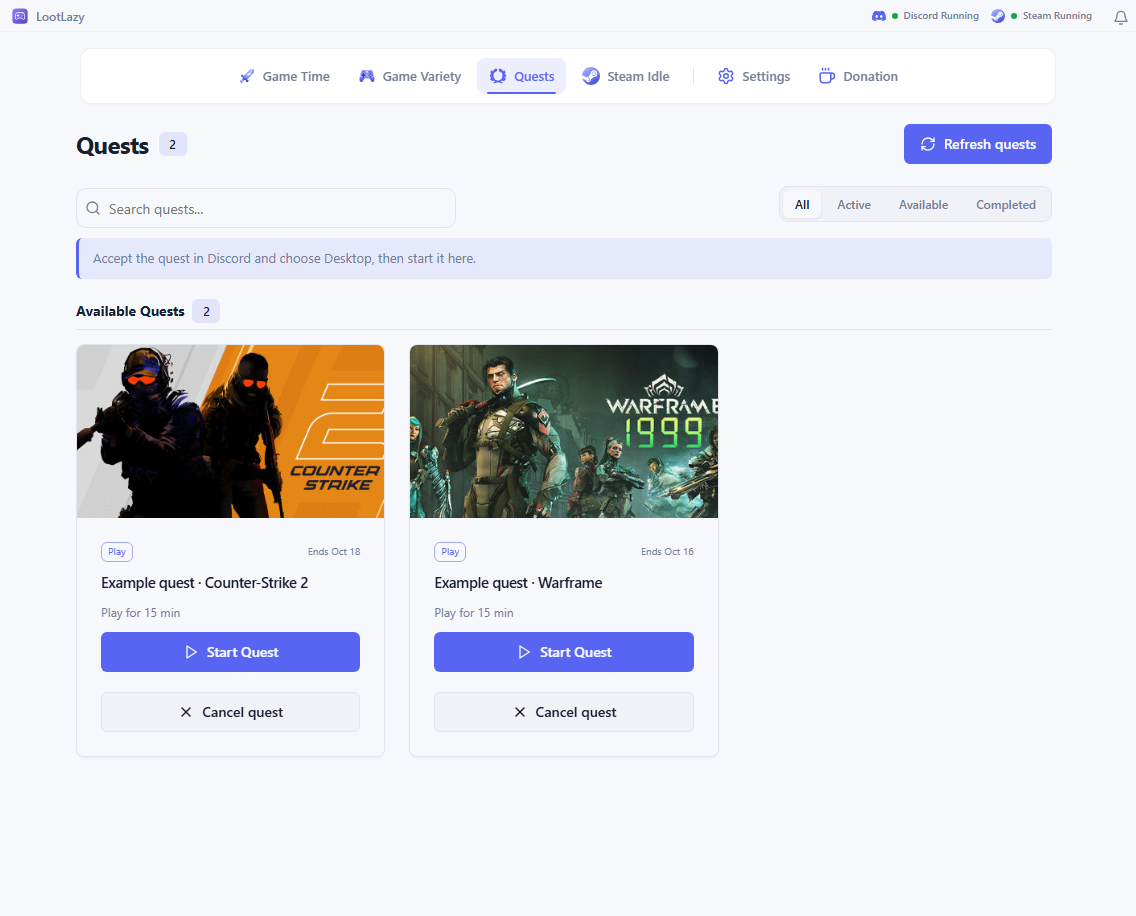
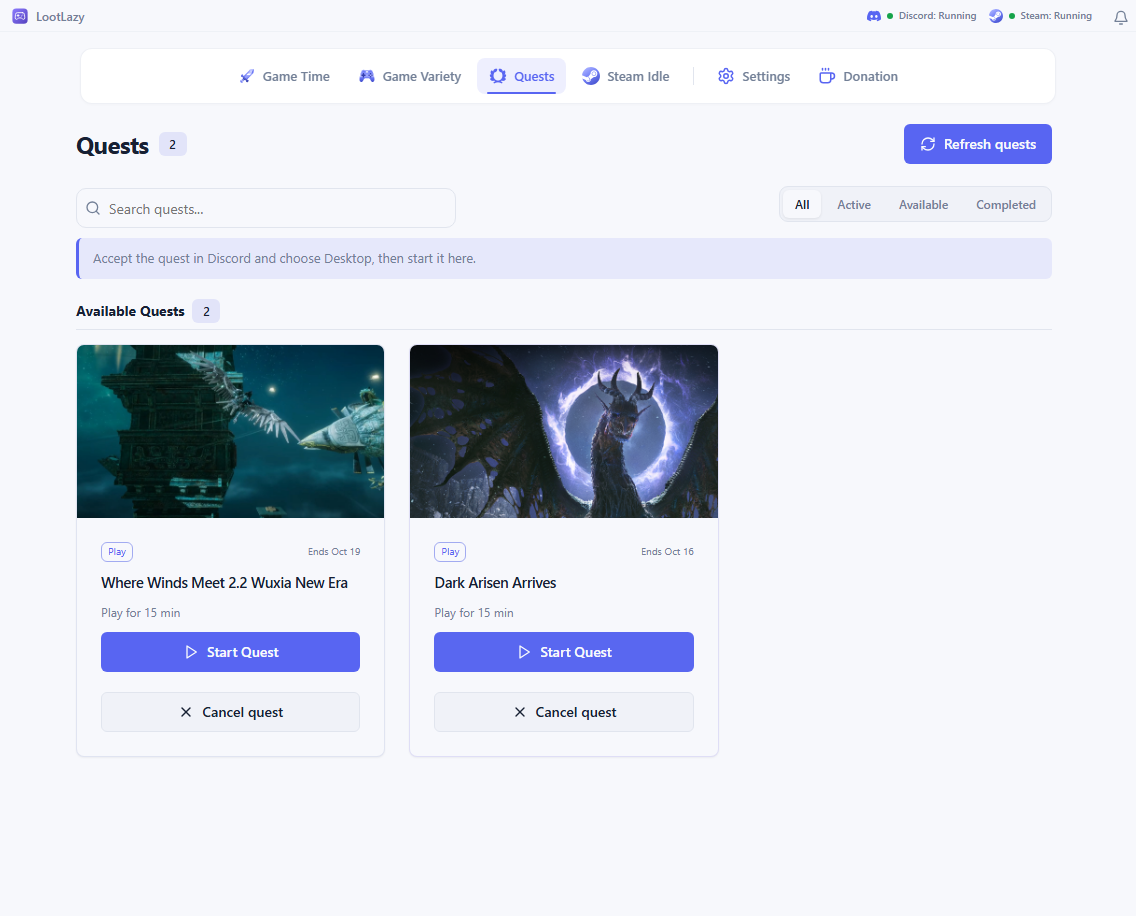
Prepare 3.6.18 with static quest controls and refreshed gallery

diff --git a/tools/generate-screenshots.js b/tools/generate-screenshots.js
@@ -24,38 +24,7 @@ const popularGames = [
 
 const catalogPath=process.env.LOOTLAZY_SCREENSHOT_CATALOG;
 if(catalogPath){const catalog=JSON.parse(fs.readFileSync(catalogPath,'utf8'));for(const game of popularGames){const match=catalog.find(item=>item.name===game.name && item.icon_hash);if(match)Object.assign(game,{id:match.id,icon_hash:match.icon_hash,cover_image_hash:match.cover_image_hash});}}
-const mockQuests = [
-  {
-    id: '123456789012345678',
-    questName: 'Example quest · Counter-Strike 2',
-    image: 'https://shared.akamai.steamstatic.com/store_item_assets/steam/apps/730/header.jpg',
-    gameName: 'Counter-Strike 2',
-    game: { id: '730' },
-    kind: 'play',
-    durationMinutes: 15,
-    durationSeconds: 900,
-    resumeElapsedSeconds: 0,
-    startsAt: new Date(Date.now() - 3600000).toISOString(),
-    expiresAt: new Date(Date.now() + 86400000 * 5).toISOString(),
-    variantIds: ['730'],
-    rewards: [{ name: 'Discord Badge & Avatar Decoration' }]
-  },
-  {
-    id: '234567890123456789',
-    questName: 'Example quest · Warframe',
-    image: 'https://shared.akamai.steamstatic.com/store_item_assets/steam/apps/230410/header.jpg',
-    gameName: 'Warframe',
-    game: { id: '230410' },
-    kind: 'play',
-    durationMinutes: 15,
-    durationSeconds: 900,
-    resumeElapsedSeconds: 0,
-    startsAt: new Date(Date.now() - 7200000).toISOString(),
-    expiresAt: new Date(Date.now() + 86400000 * 3).toISOString(),
-    variantIds: ['230410'],
-    rewards: [{ name: 'In-Game Reward & Discord Badge' }]
-  }
-];
+const mockQuests = JSON.parse(fs.readFileSync(path.join(screenshotsDir, 'quest-examples.json'), 'utf8').replace(/^\uFEFF/, ''));
 
 let server, browser;
 
@@ -92,7 +61,7 @@ let server, browser;
       deviceScaleFactor: 1
     });
 
-    await page.route('http://artwork.localhost/**', async route => { const url=new URL(route.request().url()).searchParams.get('url'); if(!url||!(url.startsWith('https://cdn.discordapp.com/app-icons/')||url.startsWith('https://cdn.discordapp.com/app-assets/')||/^https:\/\/(?:shared\.akamai|shared\.fastly|cdn\.akamai)\.steamstatic\.com\//.test(url)))return route.fulfill({status:404,body:''}); try{const response=await route.fetch({url,timeout:15000});await route.fulfill({response});}catch{await route.fulfill({status:404,body:''});} });
+    await page.route('http://artwork.localhost/**', async route => { const url=new URL(route.request().url()).searchParams.get('url'); if(!url||!(url.startsWith('https://cdn.discordapp.com/app-icons/')||url.startsWith('https://cdn.discordapp.com/app-assets/')||url.startsWith('https://cdn.discordapp.com/quests/')||/^https:\/\/(?:shared\.akamai|shared\.fastly|cdn\.akamai)\.steamstatic\.com\//.test(url)))return route.fulfill({status:404,body:''}); try{const response=await route.fetch({url,timeout:15000});await route.fulfill({response});}catch{await route.fulfill({status:404,body:''});} });
 
     await page.addInitScript(({ games, quests }) => {
       window.lootlazyDiagnostic = true;
@@ -129,7 +98,7 @@ let server, browser;
         if (p === '/api/catalog-stats') return { totalGames: games.length };
         if (p === '/api/settings') return { desktop_notifications: false, total_playtime_seconds: 0 };
         if (p === '/api/quests') return { quests, last_synced: new Date().toISOString() };
-        if (p.startsWith('/api/updates')) return { currentVersion: '3.6.17', status: 'up_to_date' };
+        if (p.startsWith('/api/updates')) return { currentVersion: '3.6.18', status: 'up_to_date' };
         if (p === '/api/status') return {
           discordConnected: true,
           steamRunning: true,
@@ -213,10 +182,13 @@ let server, browser;
     });
     await settle();
     const questsPath = path.join(screenshotsDir, 'quests.png');
+    await page.waitForFunction(()=>[...document.querySelectorAll('.quest-cover img')].every(image=>image.complete&&image.naturalWidth>0));
+    for(const button of await page.locator('.quest-card .button').all()){if(await button.isVisible()){await button.hover();const motion=await button.evaluate(element=>({transform:getComputedStyle(element).transform,animation:getComputedStyle(element).animationName}));if(motion.transform!=='none'||motion.animation!=='none')throw Error('Quest button moves');}}
+    await page.mouse.move(0,0);
     await page.screenshot({ path: questsPath });
     console.log('Saved:', questsPath);
 
-    await page.evaluate(()=>{window.lootlazyNotifications.add(t('session_completed',{game:'Counter-Strike 2'}),'success',{kind:'session',target:'simulator'});window.lootlazyNotifications.add(t('update_available_version',{version:'3.6.17'}),'info',{kind:'update',target:'settings'});});
+    await page.evaluate(()=>{window.lootlazyNotifications.add(t('session_completed',{game:'Counter-Strike 2'}),'success',{kind:'session',target:'simulator'});window.lootlazyNotifications.add(t('update_available_version',{version:'3.6.18'}),'info',{kind:'update',target:'settings'});});
     await page.click('#notifications-toggle');await page.locator('#notifications-list .notification-item').last().click();await settle();await page.screenshot({path:path.join(screenshotsDir,'notifications.png')});
     console.log('All gallery screenshots updated successfully.');
   } finally {

diff --git a/public/css/style.css b/public/css/style.css
@@ -14,3 +14,7 @@
 @media(max-width:760px){.navigation{flex-basis:62px}.nav-tab{justify-content:center}.nav-tab>[data-i18n]{display:none}.workspace-grid{grid-template-columns:1fr}.quests-grid{grid-template-columns:1fr}.page-heading h1{font-size:24px}}
 
 .window-button{display:inline-flex;align-items:center;justify-content:center}.window-button svg{width:11px;height:11px;fill:none;stroke:currentColor;stroke-width:1;stroke-linecap:square}.titlebar .icon-button svg{width:16px;height:16px}.quest-running{border-color:var(--green);box-shadow:0 0 0 1px #76ddad16}.quest-progress{margin:0}.quest-error-text{font-size:11px!important;margin-top:6px;text-align:center;color:var(--red)}.button.quest-timer{font-variant-numeric:tabular-nums;letter-spacing:.3px}.advanced-game-settings>summary::after,.queue-summary::after{content:'+';font-size:18px;font-weight:400;color:var(--muted)}details[open]>summary::after{content:'−'}.game-item .row-chevron{display:none}.game-item{grid-template-columns:42px minmax(0,1fr)}.quests-toolbar-actions{display:flex;align-items:center;gap:8px}.quest-duration-pill{display:inline-flex;align-items:center;gap:6px;height:34px;padding:0 12px;background:var(--surface-2);border:1px solid var(--line);border-radius:9px;color:var(--text);font-size:12px;font-weight:600;font-variant-numeric:tabular-nums;cursor:pointer;transition:all .15s ease}.quest-duration-pill:hover{background:var(--surface);border-color:var(--accent)}.quest-duration-pill svg{width:14px;height:14px;color:var(--accent)}#quest-duration-dialog{width:380px}.quests-section{margin-bottom:26px}.quests-section-header{display:flex;align-items:center;gap:10px;margin-bottom:14px;padding-bottom:6px;border-bottom:1px solid var(--line)}.quests-section-header h2{font-size:14px;font-weight:700;display:flex;align-items:center;gap:8px;color:var(--text)}.pulse-indicator{width:8px;height:8px;border-radius:50%;background:var(--green);box-shadow:0 0 0 3px #76ddad28;display:inline-block;animation:pulse 1.8s infinite}@keyframes pulse{0%,100%{opacity:1;transform:scale(1)}50%{opacity:.6;transform:scale(1.2)}}
+
+/* Quest controls stay still while hovered and during status polling. */
+.quest-card{animation:none}
+.quest-card .button,.quest-card .button:hover,.quest-card .button:active{transform:none;animation:none;transition:background-color .16s,border-color .16s,color .16s}

diff --git a/public/js/app.js b/public/js/app.js
@@ -5,7 +5,7 @@ const clock=seconds=>[Math.floor(seconds/3600),Math.floor(seconds%3600/60),Math.
 const hm=minutes=>[Math.floor(minutes/60),Math.round(minutes%60)].map(n=>String(n).padStart(2,'0')).join(':');
 function humanTime(seconds){const h=Math.floor(seconds/3600),m=Math.floor(seconds%3600/60),s=Math.floor(seconds%60);return [[h,'hours_unit'],[m,'minutes_unit'],[s,'seconds_unit']].filter(([n])=>n>0).map(([n,key])=>number(n)+' '+t(key)).join(' ');}
 function dateText(value,withTime=false){const date=new Date(value);if(!Number.isFinite(date.getTime()))return '—';return new Intl.DateTimeFormat(currentLang==='ar'?'ar-EG':'en-US',withTime?{month:'short',day:'numeric',hour:'2-digit',minute:'2-digit'}:{month:'short',day:'numeric'}).format(date);}
-function actionLabel(button,icon,label){button.innerHTML=getIcon(icon)+'<span>'+escapeHtml(label)+'</span>';}
+function actionLabel(button,icon,label){const markup=getIcon(icon)+'<span>'+escapeHtml(label)+'</span>';if(button.dataset.actionMarkup===markup&&button.firstElementChild)return;button.innerHTML=markup;button.dataset.actionMarkup=markup;}
 function setSlot(id,icon){if($(id))$(id).innerHTML=getIcon(icon);}
 function errorText(error,fallback='start_error'){
  const steamCodes=['discord_not_installed','steam_not_installed','discord_sync_unavailable','steam_sync_unavailable','steam_sync_already_running','steam_runtime_untrusted','steam_runtime_missing','steam_launch_failed','steam_not_owned','steam_connection_lost','steam_initialization_failed'];const steamCode=steamCodes.find(key=>String(error?.message||error||'').includes(key));if(steamCode)return t(steamCode);

diff --git a/tests/ui-settings.test.js b/tests/ui-settings.test.js
@@ -54,3 +54,4 @@ test('catalog refresh does not retry validation failures or hide persistent conn
 test('manual update checks do not write notifications but automatic discovery does',async()=>{
  for(const check of [true,false]){const history=[];const context={updatesBusy:false,state:{update:{},tab:'settings'},$:()=>({}),busy:()=>{},request:async()=>({status:'available',latestVersion:'3.6.16'}),renderUpdates:()=>{},toast:()=>{},t:key=>key,window:{lootlazyDiagnostic:true,lootlazyNotifications:{add:(...args)=>history.push(args)}}};await run('loadUpdates',context)(check,false);assert.equal(history.length,check?0:1);}
 });
+test('unchanged action labels preserve button contents between status polls',()=>{let changes=0;let current='';const button={dataset:{},firstElementChild:{},get innerHTML(){return current},set innerHTML(value){changes++;current=value;}};const fn=run('actionLabel',{getIcon:icon=>'<svg>'+icon+'</svg>',escapeHtml:value=>String(value)});fn(button,'play','Start Quest');fn(button,'play','Start Quest');assert.equal(changes,1);fn(button,'play','Resume');assert.equal(changes,2);button.firstElementChild=null;fn(button,'play','Resume');assert.equal(changes,3,'label is restored after another state removes the icon');});

diff --git a/README.md b/README.md
@@ -35,9 +35,9 @@ Choose your games, set your time, and let LootLazy manage the sessions. Whether 
 |:---:|:---:|
 | [![Game Time](https://raw.githubusercontent.com/bitlukaa/LootLazy/main/docs/screenshots/game-time.png)](https://raw.githubusercontent.com/bitlukaa/LootLazy/main/docs/screenshots/game-time.png) | [![Game Variety](https://raw.githubusercontent.com/bitlukaa/LootLazy/main/docs/screenshots/game-variety.png)](https://raw.githubusercontent.com/bitlukaa/LootLazy/main/docs/screenshots/game-variety.png) |
 
-| 💤 Steam Idle | 🏆 Quests |
+| 🏆 Quests | 💤 Steam Idle |
 |:---:|:---:|
-| [![Steam Idle](https://raw.githubusercontent.com/bitlukaa/LootLazy/main/docs/screenshots/idle-steam.png)](https://raw.githubusercontent.com/bitlukaa/LootLazy/main/docs/screenshots/idle-steam.png) | [![Quests](https://raw.githubusercontent.com/bitlukaa/LootLazy/main/docs/screenshots/quests.png)](https://raw.githubusercontent.com/bitlukaa/LootLazy/main/docs/screenshots/quests.png) |
+| [![Quests](https://raw.githubusercontent.com/bitlukaa/LootLazy/main/docs/screenshots/quests.png)](https://raw.githubusercontent.com/bitlukaa/LootLazy/main/docs/screenshots/quests.png) | [![Steam Idle](https://raw.githubusercontent.com/bitlukaa/LootLazy/main/docs/screenshots/idle-steam.png)](https://raw.githubusercontent.com/bitlukaa/LootLazy/main/docs/screenshots/idle-steam.png) |
 
 <details>
 <summary>🔔 A closer look at notifications</summary>

diff --git a/CHANGELOG.md b/CHANGELOG.md
@@ -1,5 +1,12 @@
 # Release history
 
+## 3.6.18 — October 14, 2026
+
+- Include Discord: and Steam: status labels in the downloadable application.
+- Keep quest action buttons still during hover and repeated status updates.
+- Match the screenshot gallery to the navigation order and show real desktop quest artwork.
+- Rotate the update signing key after loss of its backup; install 3.6.18 manually once before using future in-app updates.
+
 ## 3.6.10 — October 13, 2026
 
 - Use LootLazy build paths, interface names and launchers exclusively.
